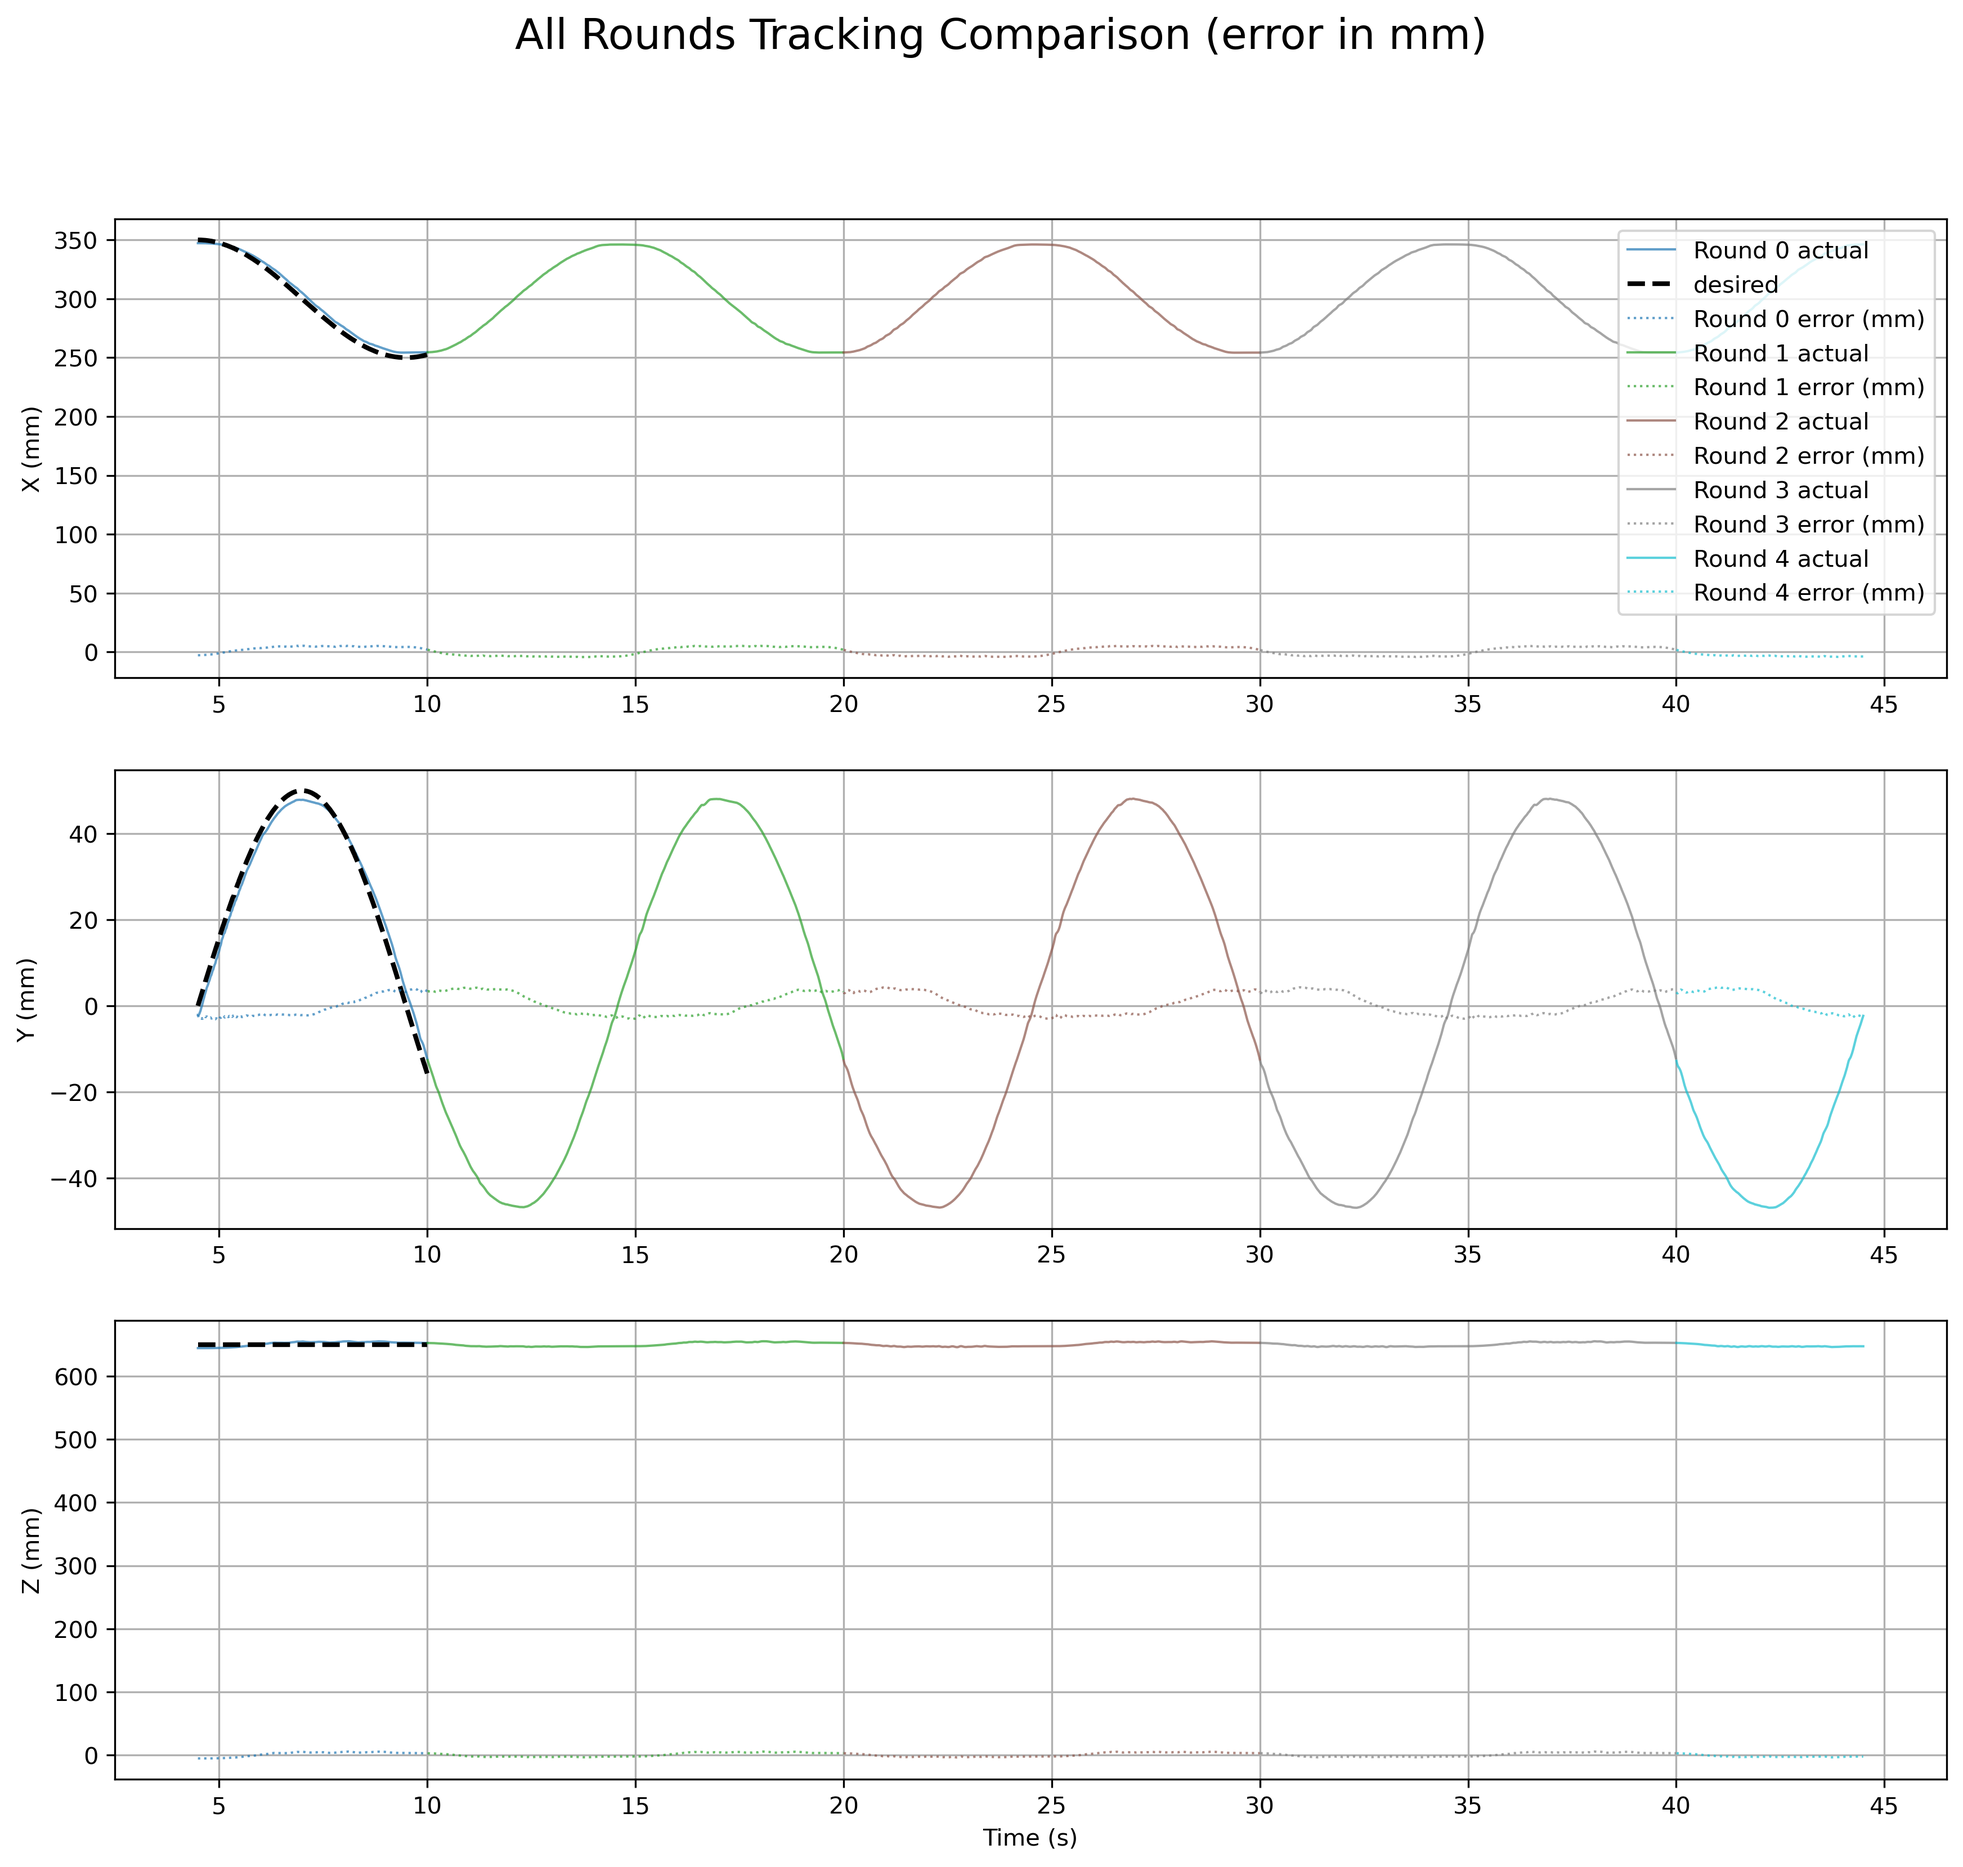
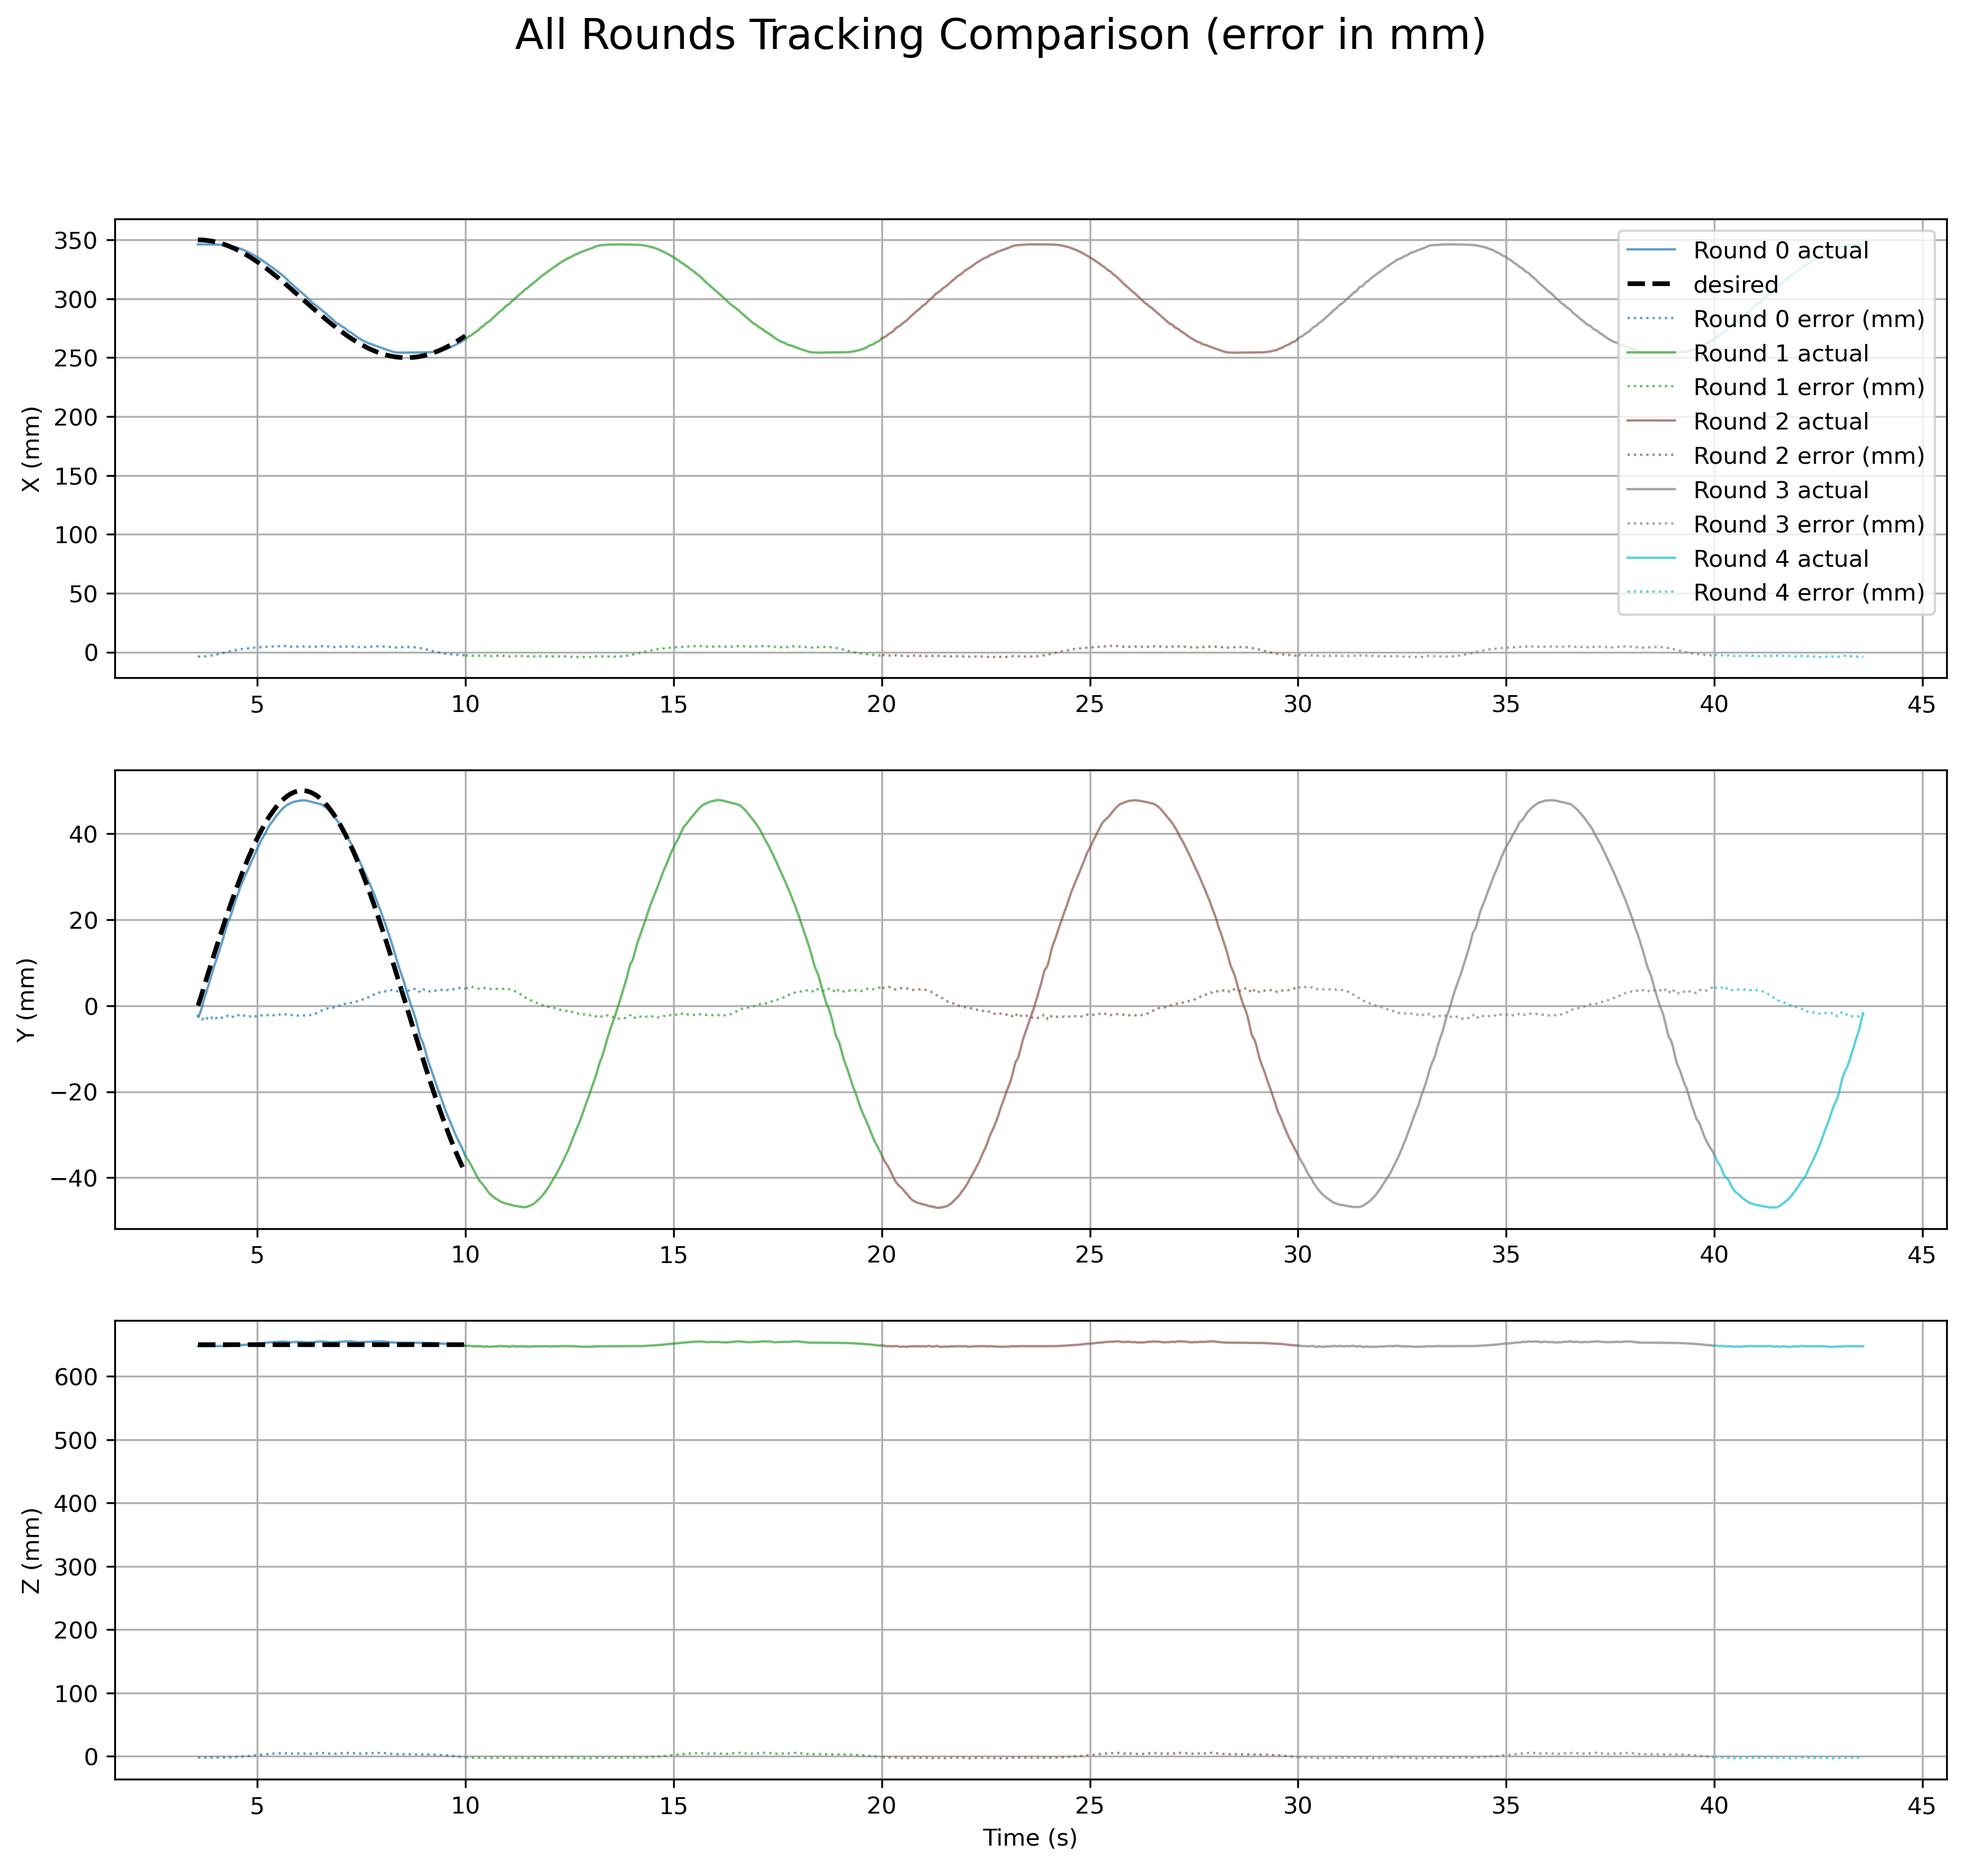
both models in local

diff --git a/new_structure/py_controllers/py_controllers/cartesian_impedance.py b/new_structure/py_controllers/py_controllers/cartesian_impedance.py
@@ -149,6 +149,7 @@ class CartesianImpedanceController(Node):
         self.y_hat_history = []          # 记录每次控制回路使用的 y_hat (7,)
         self.tau_residual_filtered = np.zeros(7)  # 滤波后的 tau_residual (7,)
         self.tau_residual_history = []   # 记录 tau_residual (7,)
+        self.tau_residual_raw_history = []   # 滤波前残差
 
         # === local GP ===
         self.gp_models_small = {}
@@ -194,10 +195,10 @@ class CartesianImpedanceController(Node):
 
         #simulated dalay
         self.future_delay = self.declare_parameter(
-            'future_delay', 0.015 # 默认 60 ms
+            'future_delay', 0.05 # 默认 60 ms
         ).value
         self.delay_steps = 0
-        self.state_delay_steps = 15   # 你想模拟的通信延迟：20个周期
+        self.state_delay_steps = 50   # 你想模拟的通信延迟：20个周期
         self.state_buffer = deque(maxlen=1000)  # 存2秒(1kHz)都够
         self.cloud_delay_steps = 100
         self.y_hat_cloud_buffer = deque(maxlen=self.cloud_delay_steps)
@@ -445,6 +446,8 @@ class CartesianImpedanceController(Node):
 
             # === 计算残差 ===
             tau_residual = tau_measured - tau - gravity_measured
+            if self.data_recording_enabled:
+                self.tau_residual_raw_history.append(tau_residual.tolist())
             self.tau_residual_filtered = (
                 0.02 * tau_residual + 0.98 * self.tau_residual_filtered
             )
@@ -566,15 +569,25 @@ class CartesianImpedanceController(Node):
                     tau_res_old = s["tau_res"]
 
                     # 用同一个 delay（秒），把 old 状态推进到它的 future（可选）
-                    delay = float(self.future_delay)   # 例如 0.002s，也可以设成 N*dt
-                    q_future = q_old + dq_old * delay + 0.5 * ddq_old * delay**2
-                    dq_future = dq_old + ddq_old * delay
-                    ddq_future = ddq_old
+                    delay = float(self.future_delay)
+
+                    q_now = self.q
+                    dq_meas = dq                      # 真实测量速度
+                    dq_ref = self.dq_des_joint        # 参考速度（J^+ * dx_des）
+                    ddq_cmd = self.ddq_des_joint      # 指令加速度（从任务空间映射）
+
+                    # q_future_main  = q_now + dq_meas * delay + 0.5 * ddq_cmd * delay**2
+                    # dq_future_main = dq_meas + ddq_cmd * delay
+                    # ddq_future_main = ddq_cmd
+
+                    q_future_main  = q_now + dq_ref * delay + 0.5 * ddq_cmd * delay**2
+                    dq_future_main = dq_ref + ddq_cmd * delay
+                    ddq_future_main = ddq_cmd
 
                     self.y_hat_cloud = self._gp_predict_and_update(
-                        q_future,
-                        dq_future,
-                        ddq_future,
+                        q_future_main,
+                        dq_future_main,
+                        ddq_future_main,
                         self.tau_residual_filtered,          # ✅ 更新用旧残差更一致
                         self.gp_models_big,
                         update = False
@@ -1004,15 +1017,15 @@ class CartesianImpedanceController(Node):
         per_joint_cfg = {
             "default": dict(
                 max_data_per_expert=50,
-                nearest_k=4,
-                max_experts=50,
+                nearest_k=2,
+                max_experts=100,
                 timescale=0.03,
             ),
             # 举例：如果你想让 6 号关节忘得快一点、专家少一点，可以单独改：
             6: dict(
                 max_data_per_expert=50,
-                nearest_k=4,
-                max_experts=50,
+                nearest_k=2,
+                max_experts=100,
                 timescale=0.05,
             ),
         }
@@ -1201,6 +1214,7 @@ class CartesianImpedanceController(Node):
                 self.ddq_des_joint_history,
                 self.y_hat_history,            # <--- 新增
                 self.tau_residual_history,     # <--- 新增
+                self.tau_residual_raw_history,
             ]
 
             min_len = min(len(s) for s in series_list)
@@ -1226,6 +1240,7 @@ class CartesianImpedanceController(Node):
                 header.extend([f'y_hat_cloud_{i+1}' for i in range(7)])    # cloud
                 header.extend([f'y_hat_mem_{i+1}' for i in range(7)])    # cloud
                 header.extend([f'tau_residual_{i+1}' for i in range(7)])
+                header.extend([f'tau_residual_raw_{i+1}' for i in range(7)])
                 writer.writerow(header)
 
                 for i in range(min_len):
@@ -1274,6 +1289,11 @@ class CartesianImpedanceController(Node):
                     
                     if i < len(self.tau_residual_history):
                         row.extend(self.tau_residual_history[i])
+                    else:
+                        row.extend([0.0]*7)
+                    
+                    if i < len(self.tau_residual_raw_history):
+                        row.extend(self.tau_residual_raw_history[i])
                     else:
                         row.extend([0.0]*7)
                     writer.writerow(row)

diff --git a/new_structure/py_controllers/py_controllers/trajectory_publisher.py b/new_structure/py_controllers/py_controllers/trajectory_publisher.py
@@ -24,7 +24,7 @@ class TrajectoryPublisher(Node):
         self.data_recording_publisher = self.create_publisher(
             Bool, '/data_recording_enabled', 10)
         
-        self.timer = self.create_timer(0.001, self.timer_callback)  # publish at 1000 Hz
+        self.timer = self.create_timer(0.01, self.timer_callback)  # publish at 1000 Hz
 
         # subscribe to /state_parameter to get robot current state
         self.state_subscription = self.create_subscription(
@@ -83,7 +83,7 @@ class TrajectoryPublisher(Node):
         self.period = 1.0 / self.frequency
         self.last_round = -1
 
-        self.declare_parameter("rounds_per_mode", 4)
+        self.declare_parameter("rounds_per_mode", 7)
         self.rounds_per_mode = self.get_parameter("rounds_per_mode").value
 
         self.declare_parameter("max_rounds", 4)
